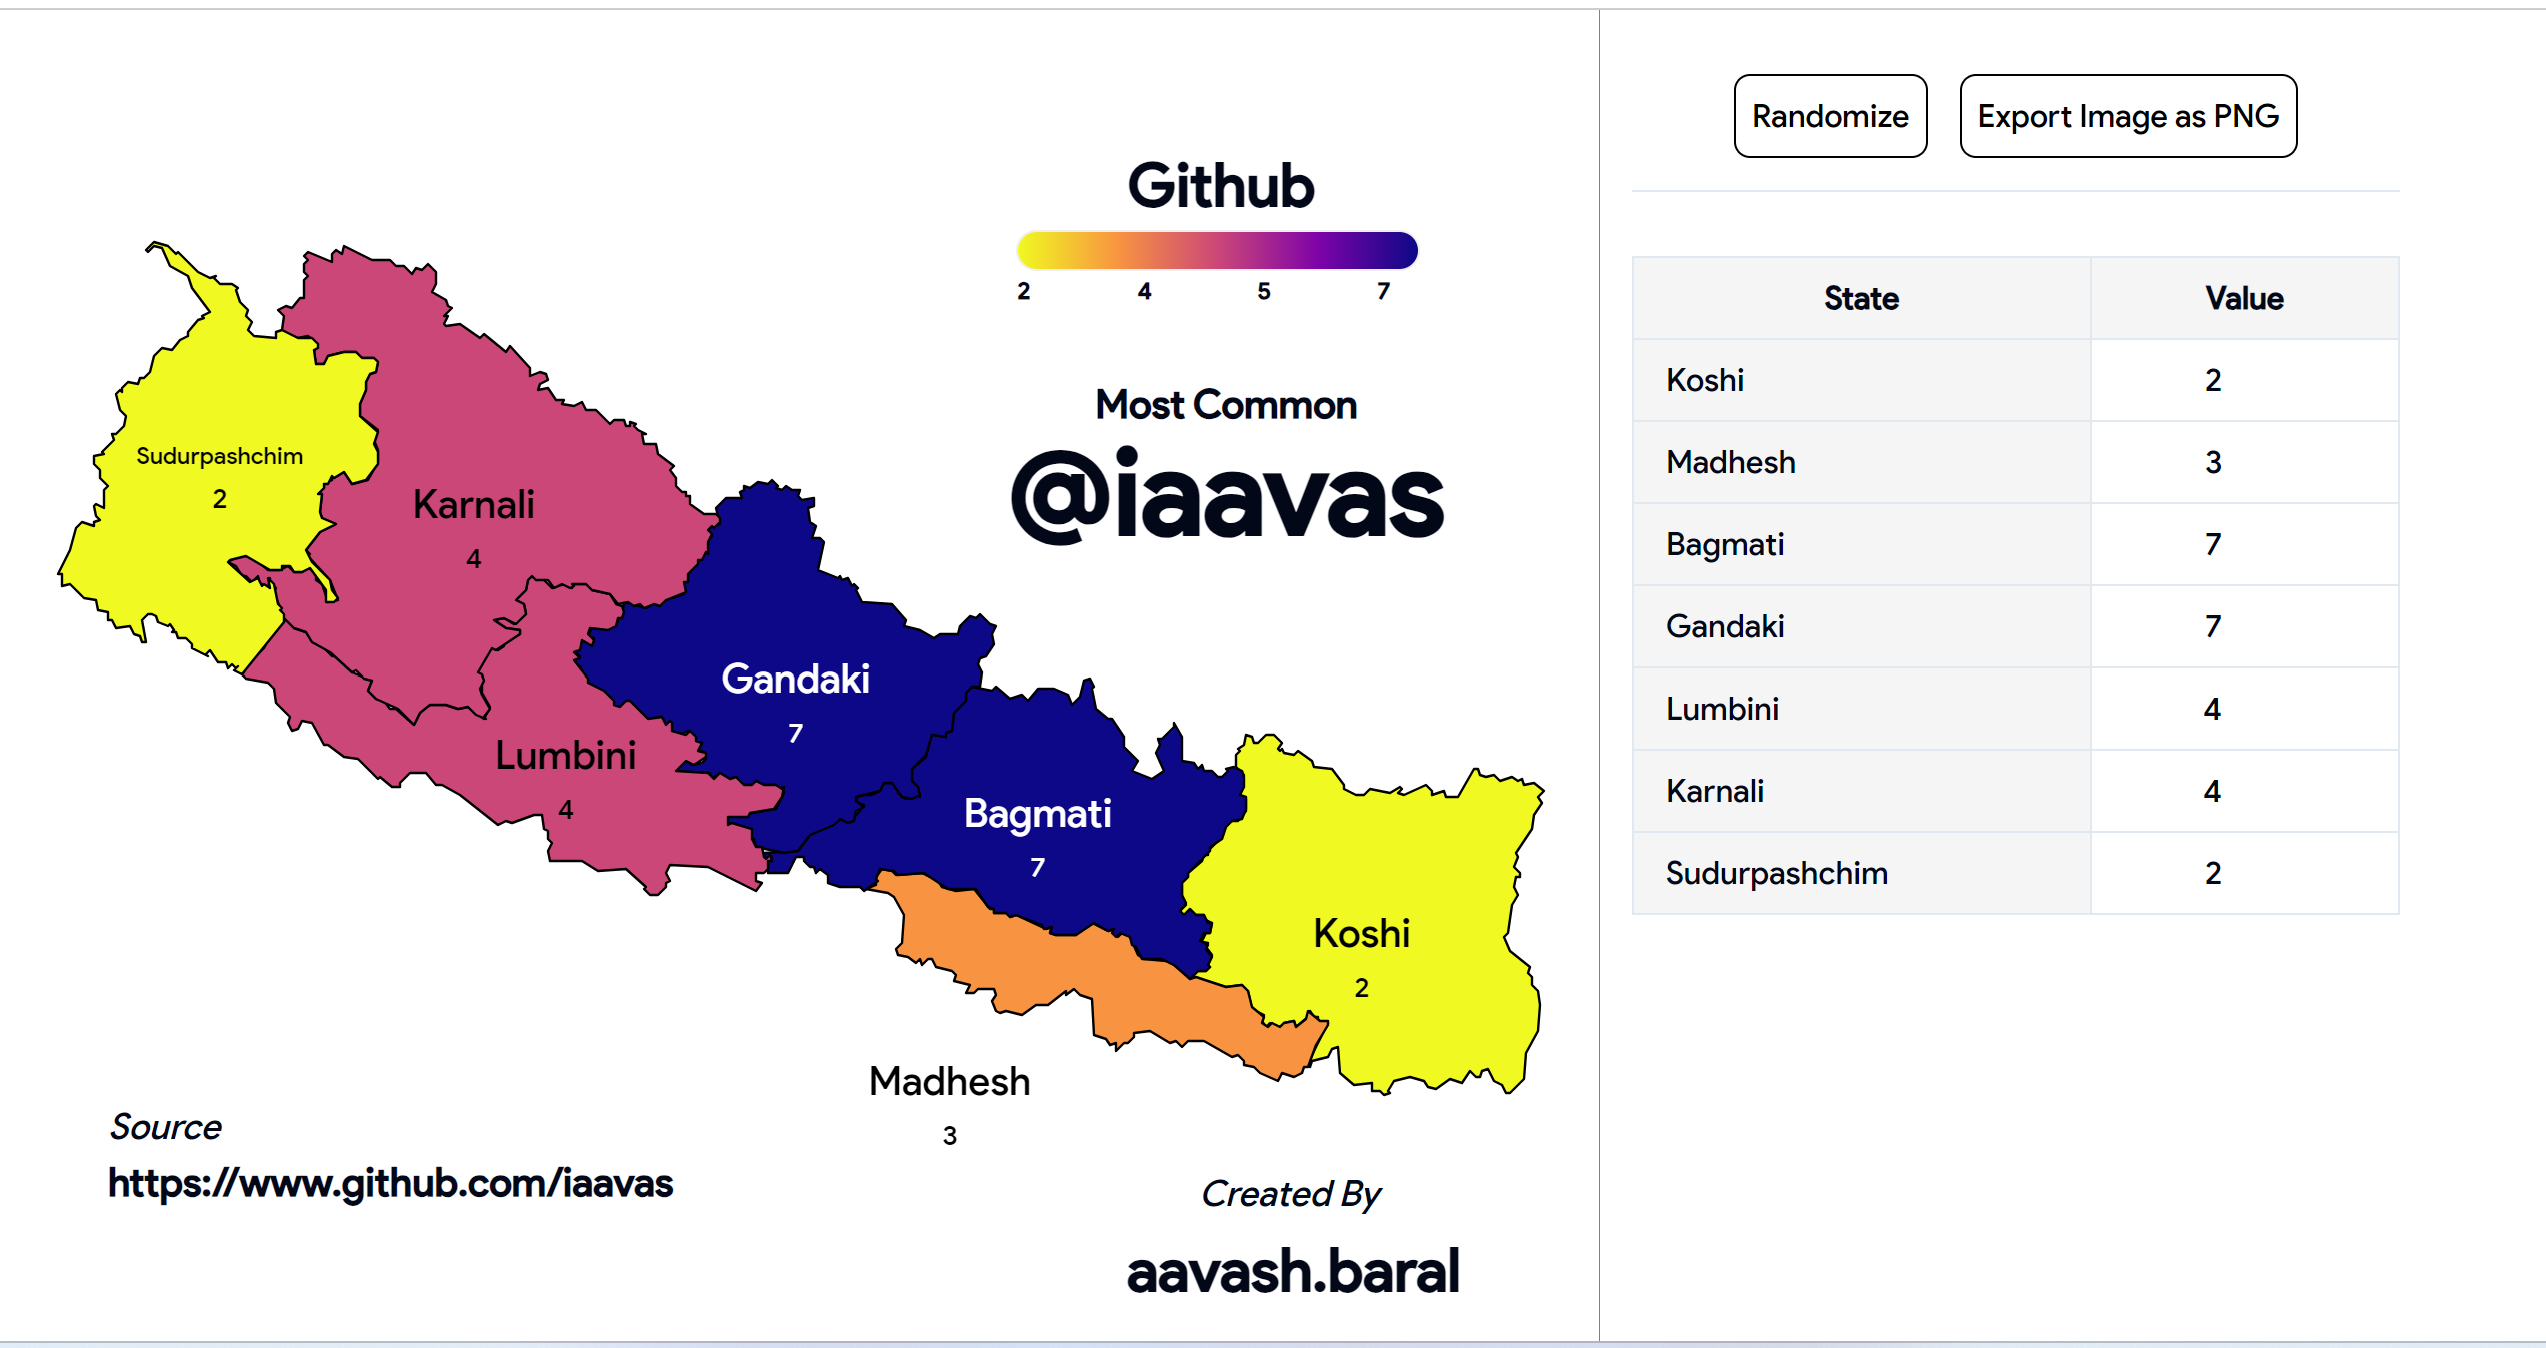
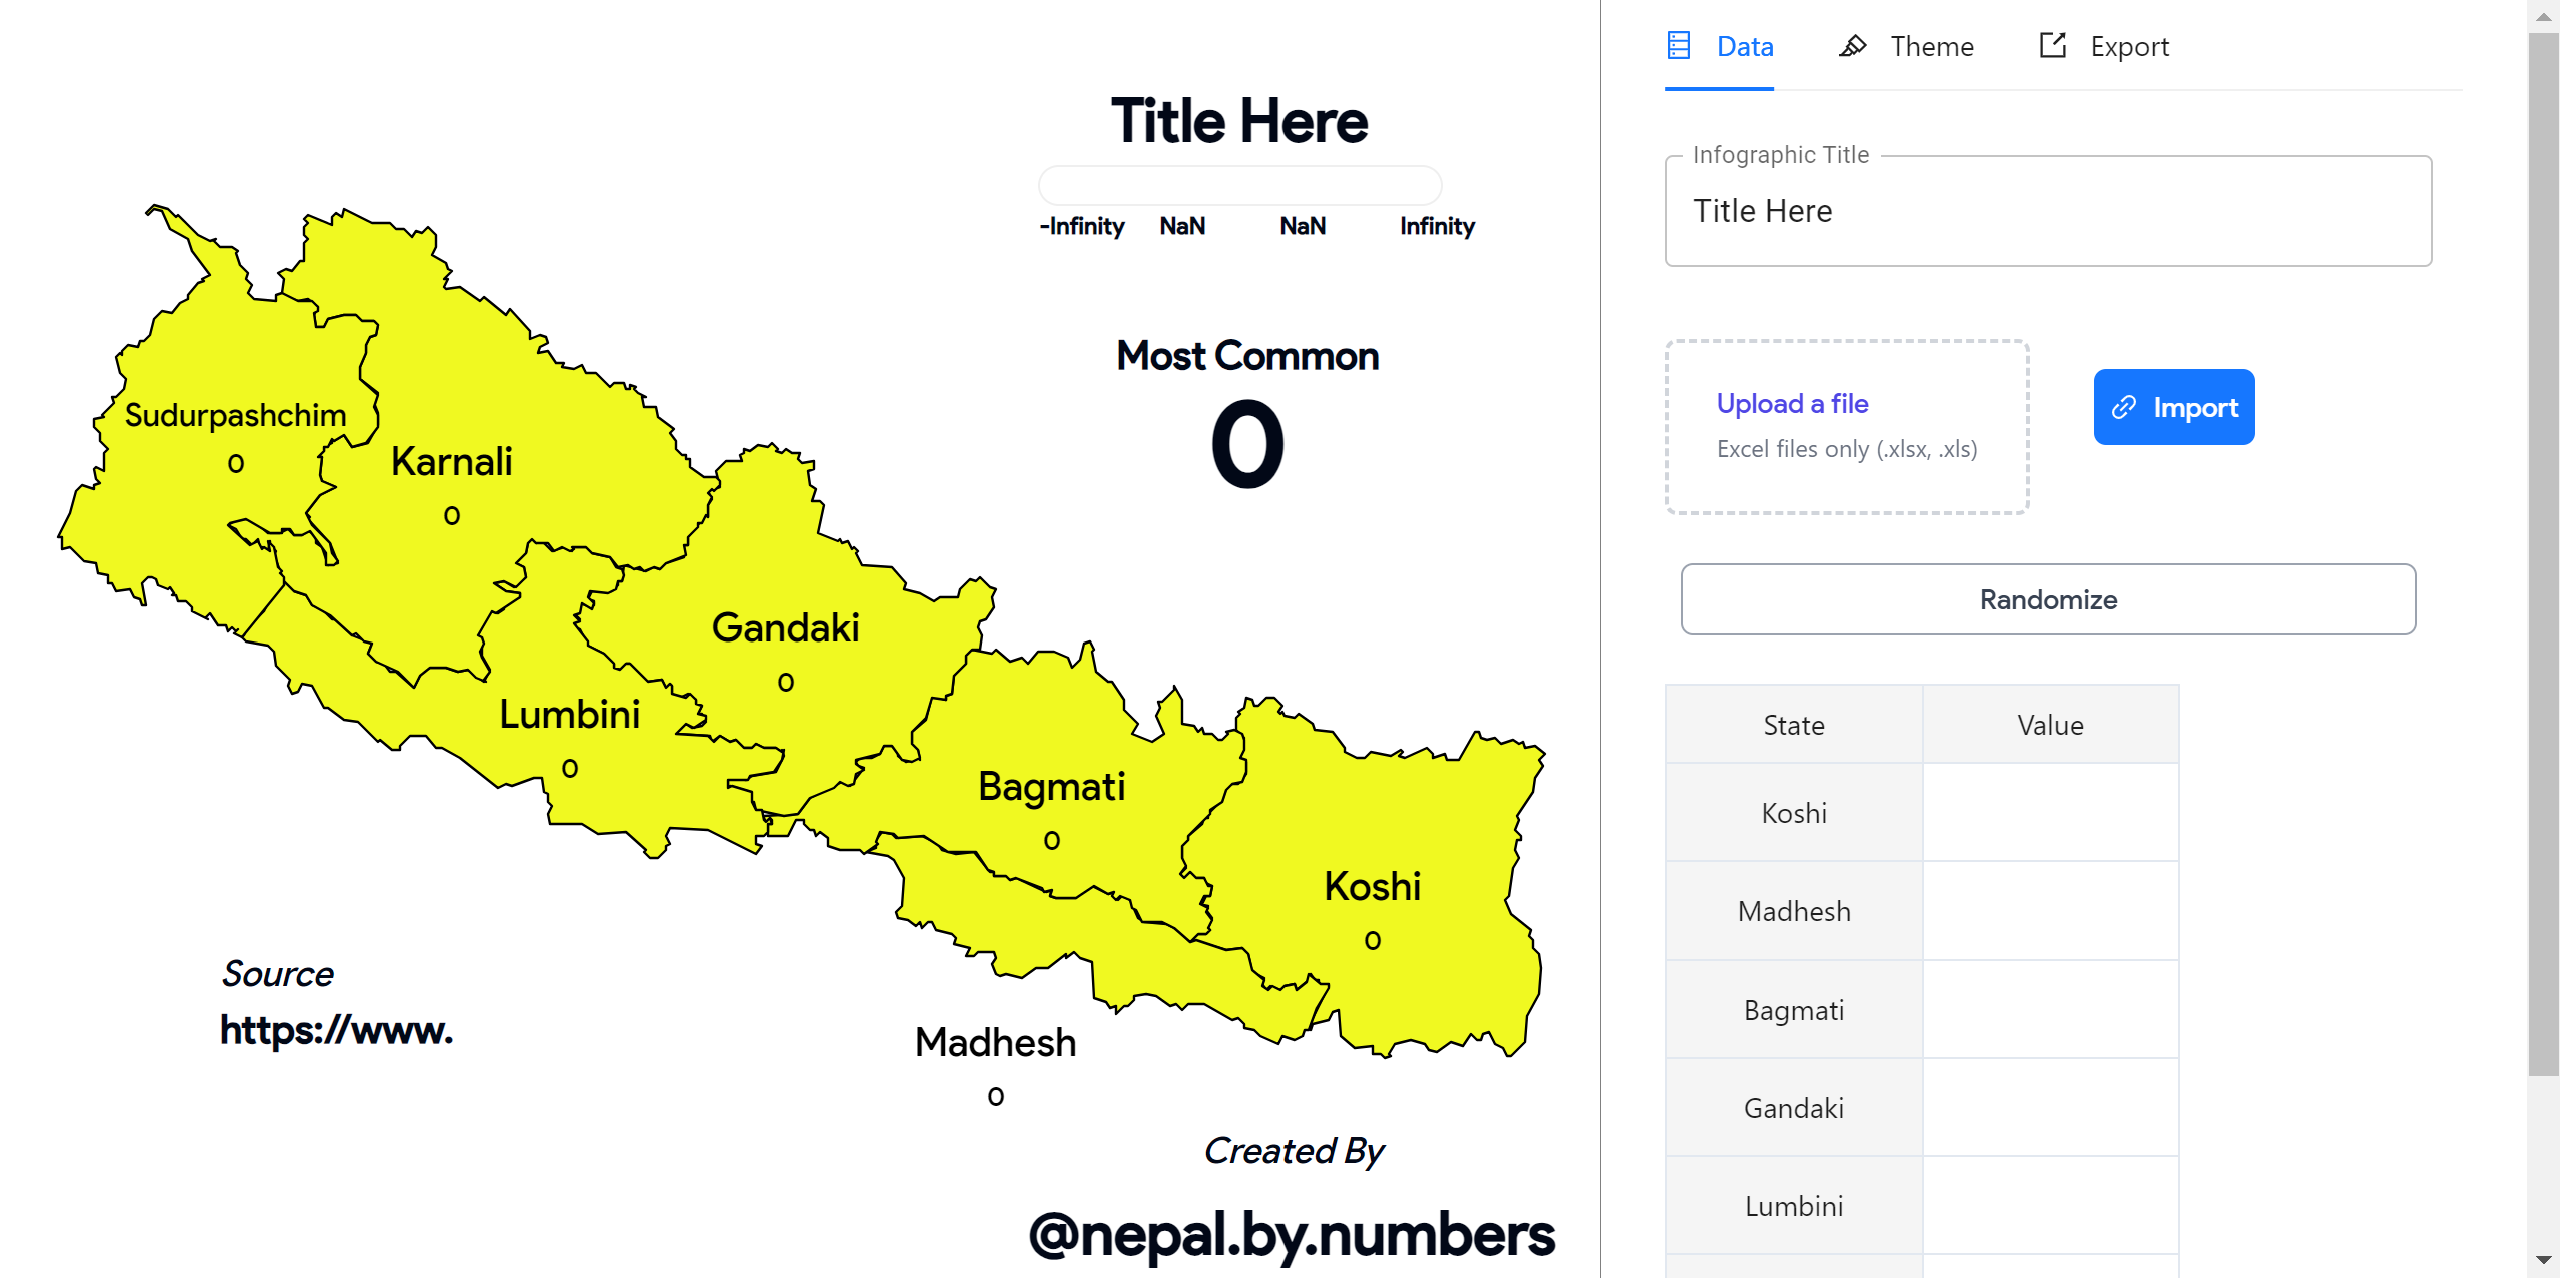
Excel Import Feature Added

diff --git a/app/components/ui/StateValueTable.tsx b/app/components/ui/StateValueTable.tsx
@@ -1,13 +1,16 @@
 "use client";
 import React, { useEffect, useState } from "react";
-
-import * as htmlToImage from "html-to-image";
+import TextField from "@mui/material/TextField";
+import { LinkOutlined } from "@ant-design/icons";
 import { useValues } from "../../context/ValueContext";
 import { useData } from "@/app/hooks/useData";
+import * as XLSX from "xlsx";
 
 const StateValueTable = ({ content }: { content: string }) => {
   const { setEntityValue, getEntityValue, setType } = useValues();
   const { data, fetchData } = useData(content);
+  const { title, setTitle } = useValues();
+  const [excelData, setExcelData] = useState<any[]>([]);
 
   useEffect(() => {
     fetchData();
@@ -23,42 +26,95 @@ const StateValueTable = ({ content }: { content: string }) => {
     });
   }
 
-  const captureMapImage = () => {
-    // @ts-ignore
-    htmlToImage.toPng(document.getElementById("map")).then(function (dataUrl) {
-      var link = document.createElement("a");
-      link.download = "my-image-name.png";
-      link.href = dataUrl;
-      link.click();
+  const handleFileUpload = (e: any) => {
+    const file = e.target.files[0];
+    const reader = new FileReader();
+
+    reader.onload = (event: any) => {
+      const binaryString = event.target.result;
+      const workbook = XLSX.read(binaryString, { type: "binary" });
+      const sheetName = workbook.SheetNames[0];
+      const sheet = workbook.Sheets[sheetName];
+      const excelData = XLSX.utils.sheet_to_json(sheet, { header: 1 });
+      setExcelData(excelData);
+    };
+
+    reader.readAsBinaryString(file);
+  };
+
+  const importFromExcel = () => {
+    // Assuming excelData follows the structure: [ [state1, value1], [state2, value2], ... ]
+    excelData.forEach((row: any) => {
+      let state = row[0];
+      const value = row[1];
+      if (content == "district") {
+        state = state.toUpperCase();
+      }
+
+      setEntityValue(content, state, value);
     });
   };
 
   return (
-    <div className="flex  flex-col w-96  ">
-      <div className="flex items-center justify-start mb-8 ">
+    <div className="flex  flex-col w-96 py-4 ">
+      <TextField
+        id="outlined-basic"
+        label="Infographic Title"
+        variant="outlined"
+        value={title}
+        onChange={(e) => setTitle(e.target.value)}
+      />
+      <div className="flex   my-4 flex-col ">
+        <div className="flex items-center  gap-8 mb-4">
+          <div className="mt-4">
+            <div className="mt-1 flex items-center justify-center px-6 pt-5 pb-6 border-2 border-gray-300 border-dashed rounded-md">
+              <div className="space-y-1 text-center">
+                <div className="flex text-sm text-gray-600">
+                  <label
+                    htmlFor="file-upload"
+                    className="relative cursor-pointer bg-white rounded-md font-medium text-indigo-600 hover:text-indigo-500 focus-within:outline-none focus-within:ring-2 focus-within:ring-offset-2 focus-within:ring-indigo-500 font-sans"
+                  >
+                    <span className="text-center">Upload a file</span>
+                    <input
+                      id="file-upload"
+                      name="file-upload"
+                      type="file"
+                      className="sr-only"
+                      accept=".xlsx, .xls"
+                      onChange={handleFileUpload}
+                    />
+                  </label>
+                </div>
+                <p className="text-xs text-gray-500">
+                  Excel files only (.xlsx, .xls)
+                </p>
+              </div>
+            </div>
+          </div>
+          <button
+            className="   bg-[#1677FF] text-white p-2 rounded-md font-sans flex gap-2 items-center text-md"
+            onClick={importFromExcel}
+          >
+            <LinkOutlined />
+            Import
+          </button>
+        </div>
         <button
-          className=" text-black font-thin border border-black hover:text-blue-600 hover:border-blue-600 p-2 m-2 rounded-lg font-sans "
+          className=" text-gray-700  border border-gray-400 hover:text-blue-600 hover:border-blue-600 p-1.5 m-2 rounded-md font-sans "
           onClick={randomizeValue}
         >
           Randomize
-        </button>
-        <button
-          className=" text-black font-thin border border-black hover:text-blue-600 hover:border-blue-600 p-2 m-2 rounded-lg font-sans "
-          onClick={captureMapImage}
-        >
-          Export Image as PNG
         </button>
       </div>
       <div
         style={{
           overflow: "auto",
-          height: "400px",
-          borderTop: "0.1px solid gray",
-          borderBottom: "0.1px solid gray",
-          borderRadius: "5px",
+          height: "24rem",
+          display: "inline-flex",
         }}
+        className=""
       >
-        <table className="table border border-stone-800  font-normal  ">
+        <table className="table  border-stone-800  font-normal border-l border-t ">
           <thead>
             <tr>
               <th className="bg-[#F5F5F5]  px-4 py-2 border text-center font-normal ">
@@ -92,6 +148,7 @@ const StateValueTable = ({ content }: { content: string }) => {
                           );
                         } else {
                           setType("class");
+                          console.log(d.properties.name);
                           setEntityValue(
                             content,
                             d.properties.name,

diff --git a/app/context/ValueContext.tsx b/app/context/ValueContext.tsx
@@ -26,6 +26,8 @@ interface ValueContextType {
   ) => (string | number | null)[] | undefined;
   type: "reg" | "class";
   setType: Dispatch<SetStateAction<"reg" | "class">>;
+  setTitle: Dispatch<SetStateAction<string>>;
+  title: string;
 }
 
 // Define a generic type for the values state
@@ -39,7 +41,7 @@ export const ValueProvider: FC<{ children: React.ReactNode }> = ({
   // Use the generic type for the state
   const [values, setValues] = useState<ValuesState>({});
   const [type, setType] = useState<"reg" | "class">("reg");
-
+  const [title, setTitle] = useState<string>("Title Here");
   const setEntityValue = (
     entityType: EntityType,
     entityId: string,
@@ -59,6 +61,7 @@ export const ValueProvider: FC<{ children: React.ReactNode }> = ({
   };
 
   const getAllEntityValues = (entityType: EntityType) => {
+    console.log(values[entityType]);
     if (values[entityType]) {
       return Object.values(values[entityType]) || null;
     }
@@ -70,6 +73,8 @@ export const ValueProvider: FC<{ children: React.ReactNode }> = ({
     getAllEntityValues,
     type,
     setType,
+    title,
+    setTitle,
   };
 
   return (

diff --git a/app/components/ui/Menubar.tsx b/app/components/ui/Menubar.tsx
@@ -1,9 +1,14 @@
 "use client";
 import React, { useState } from "react";
-import { DatabaseOutlined, HighlightOutlined } from "@ant-design/icons";
+import {
+  DatabaseOutlined,
+  HighlightOutlined,
+  ExportOutlined,
+} from "@ant-design/icons";
 import { Tabs } from "antd";
 import StateValueTable from "./StateValueTable";
 import Theme from "./Theme";
+import Export from "./Export";
 
 function Menubar({ content }: { content: string }) {
   const [selectedTab, setSelectedTab] = useState<string>("1");
@@ -40,6 +45,17 @@ function Menubar({ content }: { content: string }) {
           key="2"
         >
           {selectedTab === "2" && <Theme />}
+        </Tabs.TabPane>
+        <Tabs.TabPane
+          tab={
+            <span className="flex">
+              <ExportOutlined />
+              <p>Export</p>
+            </span>
+          }
+          key="3"
+        >
+          {selectedTab === "3" && <Export />}
         </Tabs.TabPane>
       </Tabs>
     </div>

diff --git a/app/components/ui/Export.tsx b/app/components/ui/Export.tsx
@@ -1,0 +1,28 @@
+import React from "react";
+import * as htmlToImage from "html-to-image";
+import { DownloadOutlined } from "@ant-design/icons";
+
+function Export() {
+  const captureMapImage = () => {
+    htmlToImage.toPng(document.getElementById("map")!).then(function (dataUrl) {
+      var link = document.createElement("a");
+      link.download = "my-image-name.png";
+      link.href = dataUrl;
+      link.click();
+    });
+  };
+  return (
+    <div className="flex flex-col  gap-y-2">
+      <h2 className="font-sans font-bold text-xl">Download Map.</h2>
+      <button
+        className=" text-gray-700    hover:text-blue-600  p-2  rounded-lg font-sans text-bold text-lg flex items-center justify-center gap-4 border"
+        onClick={captureMapImage}
+      >
+        <DownloadOutlined />
+        <p>Download as PNG</p>
+      </button>
+    </div>
+  );
+}
+
+export default Export;

diff --git a/app/components/map/Legend.tsx b/app/components/map/Legend.tsx
@@ -2,9 +2,10 @@ import React, { useState } from "react";
 import Dragger from "../ui/Dragger";
 import EditText from "./EditText";
 import ColorBar from "./ColorBar";
+import { useValues } from "@/app/context/ValueContext";
 
-function Legend({ scale }: { scale: any }) {
-  const [title, setTitle] = useState<string>("Title Here");
+function Legend({ scale, content }: { scale: any; content: string }) {
+  const { title, setTitle } = useValues();
   return (
     <Dragger>
       <div
@@ -12,7 +13,7 @@ function Legend({ scale }: { scale: any }) {
         style={{ rowGap: "1px" }}
       >
         <EditText text={title} setText={setTitle} />
-        {scale && <ColorBar colorScale={scale} content={"province"} />}
+        {scale && <ColorBar colorScale={scale} content={content} />}
       </div>
     </Dragger>
   );

diff --git a/app/components/map/Map.tsx b/app/components/map/Map.tsx
@@ -78,7 +78,9 @@ const Map = ({ mapType }: { mapType: string }) => {
       const value: any = getEntityValue(mapType, feature.properties.name);
 
       const scaledValue: any =
-        value !== undefined && value !== null ? colorScale(value) : "#cccccc";
+        value !== undefined && value !== null
+          ? colorScale(value)
+          : colorRange[0];
 
       const provinceLayer = L.geoJSON(feature, {
         style: {
@@ -205,7 +207,7 @@ const Map = ({ mapType }: { mapType: string }) => {
           height: "100vh",
         }}
       >
-        <Legend scale={scale} />
+        <Legend scale={scale} content={mapType} />
         <CreatedBy />
         <OverallStats />
         <DataSource />

diff --git a/app/components/ui/Theme.tsx b/app/components/ui/Theme.tsx
@@ -13,8 +13,9 @@ const ColorPalette = ({
 
   return (
     <div
-      className={`flex justify-center flex-col items-center cursor-pointer ease-in-out transition-all ${
-        theme === paletteName && "border border-black rounded-xl  p-2"
+      className={`flex justify-center flex-col items-center cursor-pointer ease-in transition-all ${
+        theme === paletteName &&
+        "border border-gray-500 border-dotted rounded-xl  p-1"
       }`}
       onClick={() => updateTheme(paletteName)}
     >

diff --git a/app/constants/Colors.ts b/app/constants/Colors.ts
@@ -10,7 +10,14 @@ export const colors = {
   },
 
   Danfe: {
-    colors: ["#7F8EFF", "#4DD9EE", "#3FD9B0", "#B3D95C", "#F7C444", "#FF7F7F"],
+    colors: [
+      "#4E6AFF",
+      "#00BFFF",
+      "#00FFB0",
+      "#8BFF00",
+      "#FFD700",
+      "#FF0000    ",
+    ],
   },
 
   Yeti: {
@@ -51,7 +58,7 @@ export const colors = {
       "rgb(0, 204, 106)",
     ],
   },
-  test: {
+  Barsha: {
     colors: [
       "rgb(204, 229, 255)",
       "rgb(102, 178, 255)",
